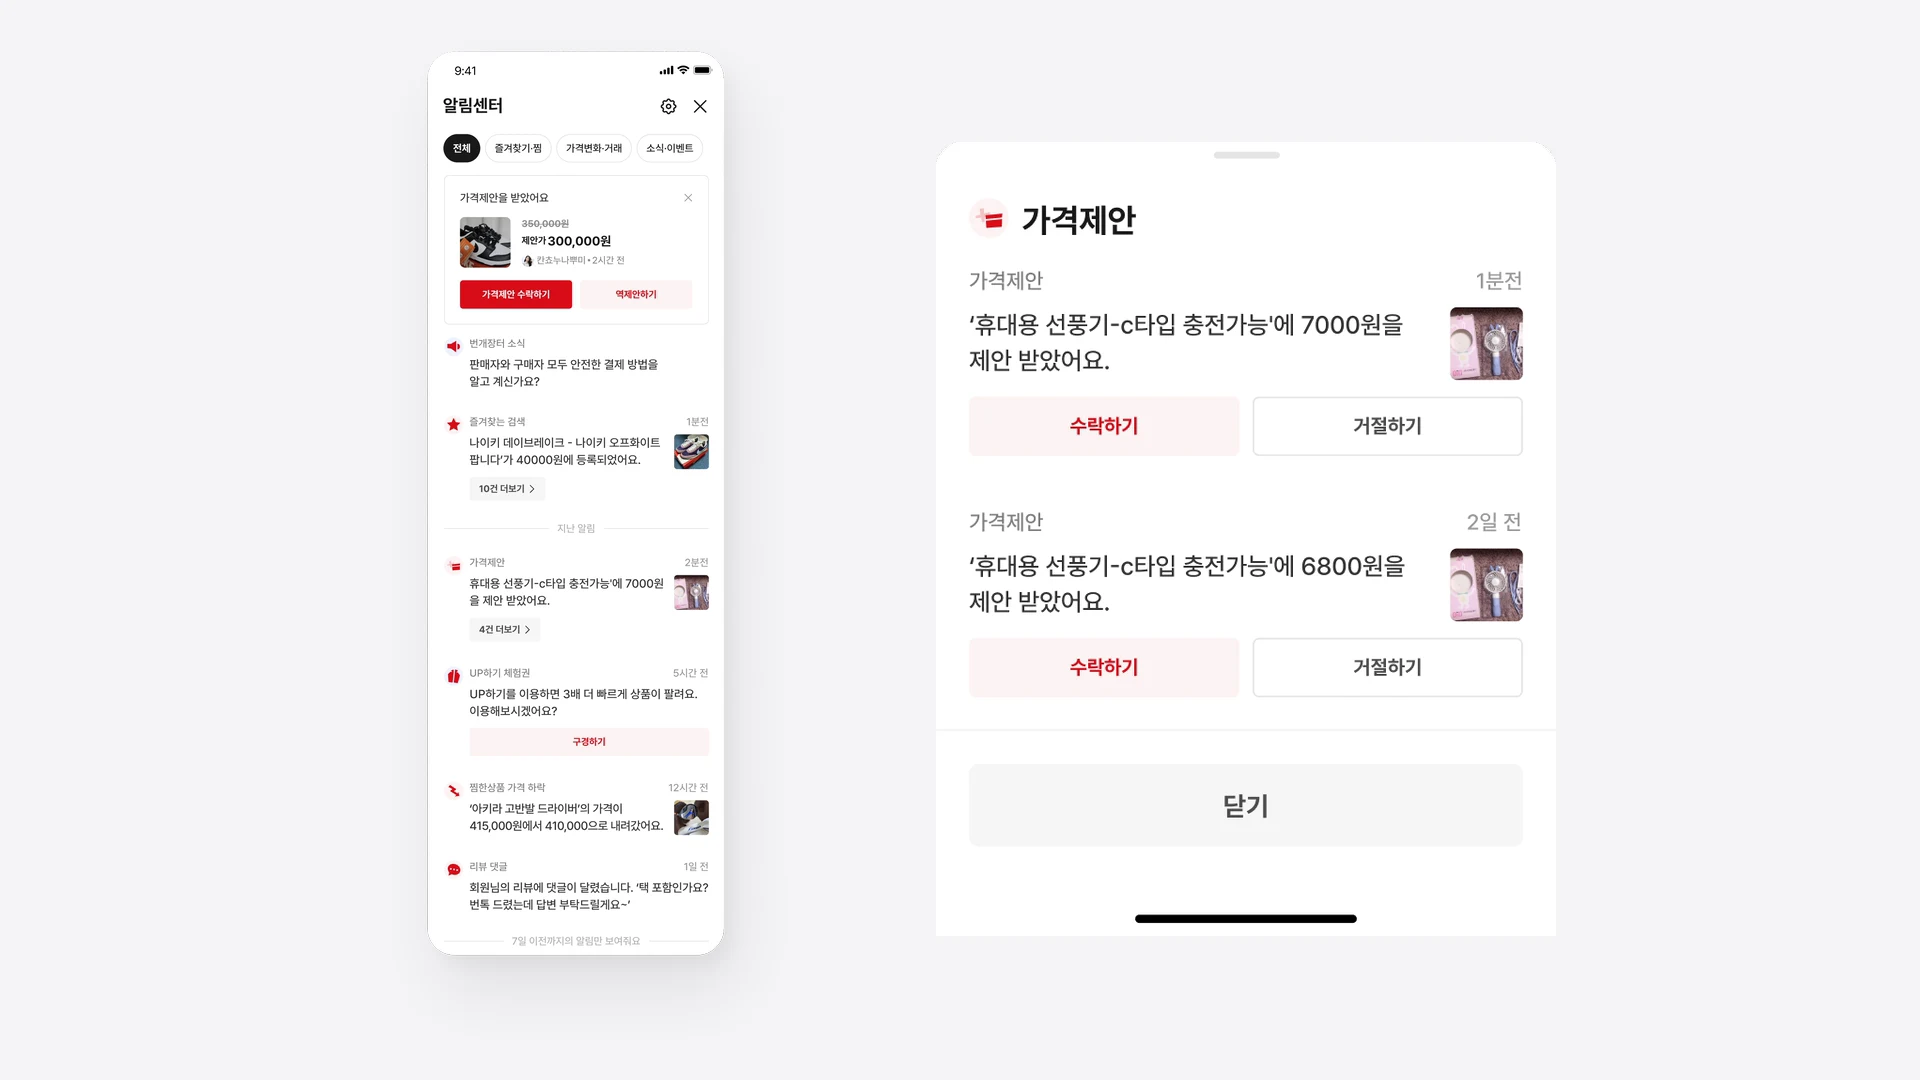
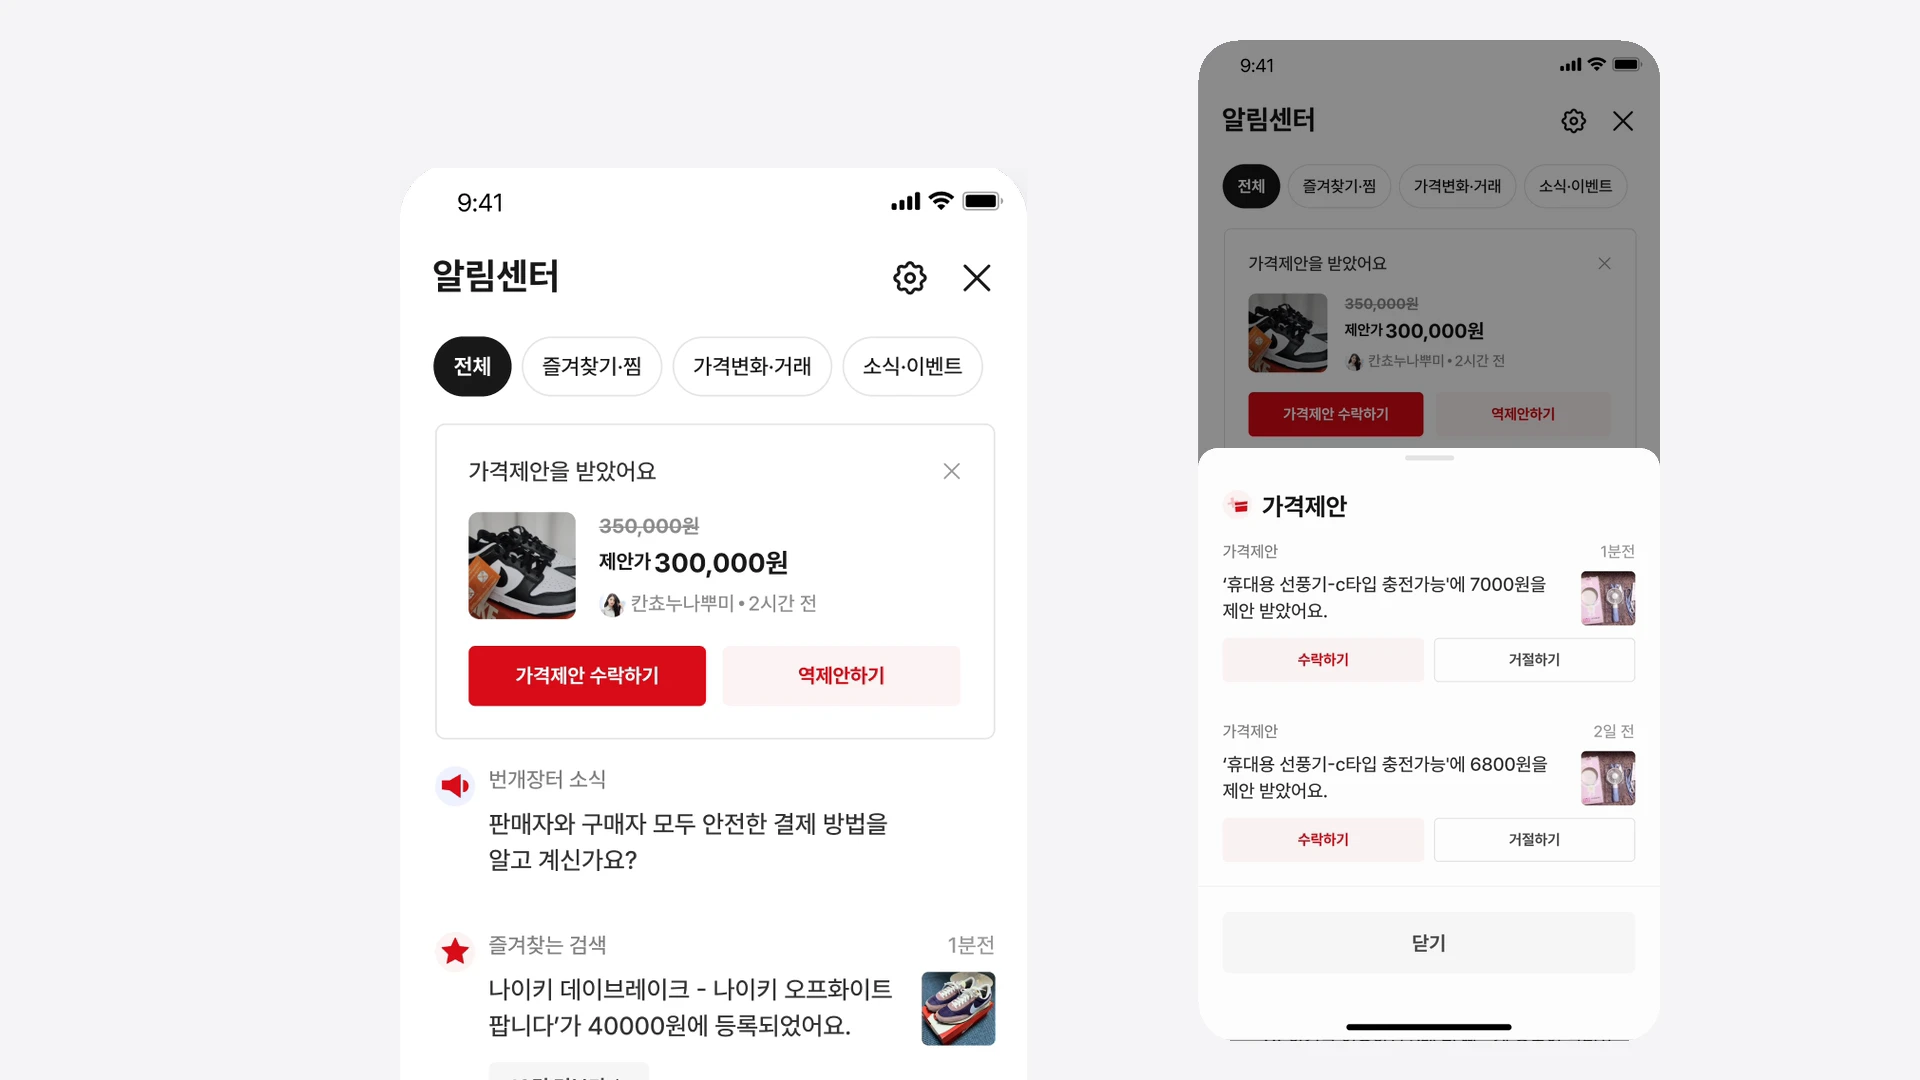
portfolio: 알림센터 TO-BE 이전 레이아웃 복원(원본 볼드)

diff --git a/portfolio/projects.html b/portfolio/projects.html
@@ -285,7 +285,7 @@
 <div class="pcap"><p class="pt"><span class="muted">Notification Center · 1인, 기여도 100%</span><br>알림센터 개편 선행 디자인</p><p class="pb">즐겨찾는 검색 알림이 99+로 쌓이고, 같은 프로필의 같은 알림이 그대로 누적되었습니다. 그 사이에 답해야 하는 거래 알림이 묻혀 바로 행동하기 어려웠습니다.</p></div>
 <img width="1920" height="1080" decoding="async" loading="lazy" src="img/bunjang/nc_1.webp?v=3" alt="">
 <div class="pcap"><p class="pt"><span class="muted">Group &amp; Act</span><br>묶고, 먼저 보이고, 바로 처리하게</p><p class="pb">같은 유형의 반복 알림은 한 줄로 묶어 더보기로 펼치게 했고, 상단 칩으로 즐겨찾기, 가격변화, 소식을 나눴습니다. 답이 필요한 가격제안은 목록 위 배너로 올려 바로 수락하거나 거절할 수 있게 했고, 여러 건은 바텀시트에서 한 번에 처리하도록 했습니다. 실무진 6명의 리뷰로 방향을 확인했고, 선행 디자인으로 보존되었습니다.</p></div>
-<img width="1920" height="1080" decoding="async" loading="lazy" src="img/bunjang/nc_2.webp?v=4" alt="">
+<img width="1920" height="1080" decoding="async" loading="lazy" src="img/bunjang/nc_2.webp?v=5" alt="">
 </template>
 <template id="proj-zerotoone">
 <img width="2560" height="1440" decoding="async" fetchpriority="high" src="img/zerotoone/01.webp?v=3" alt="">
